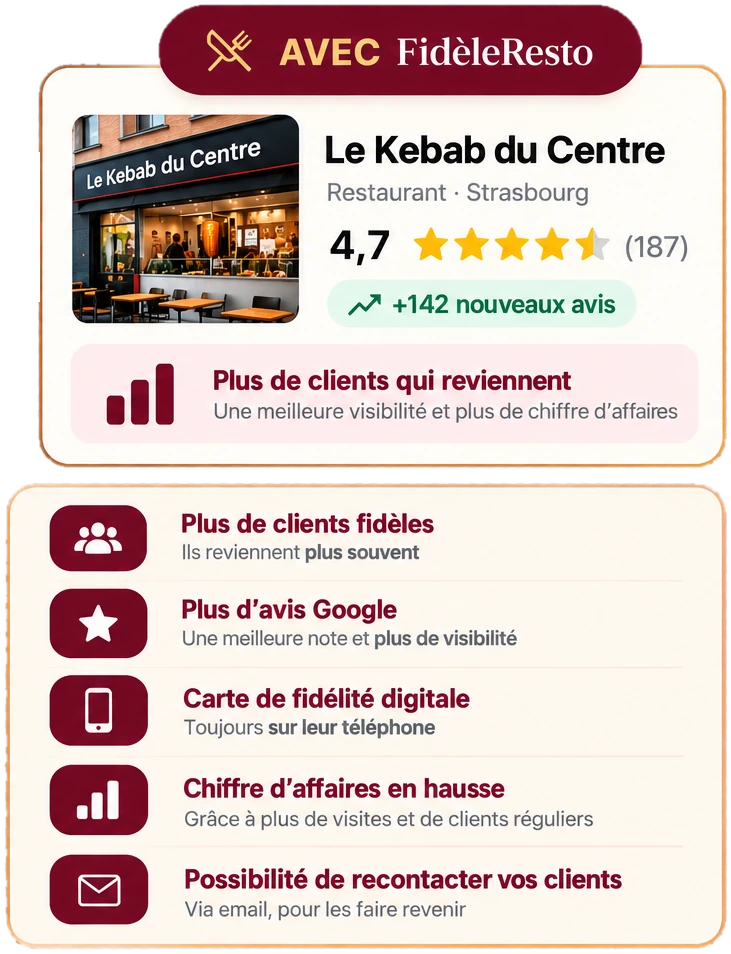
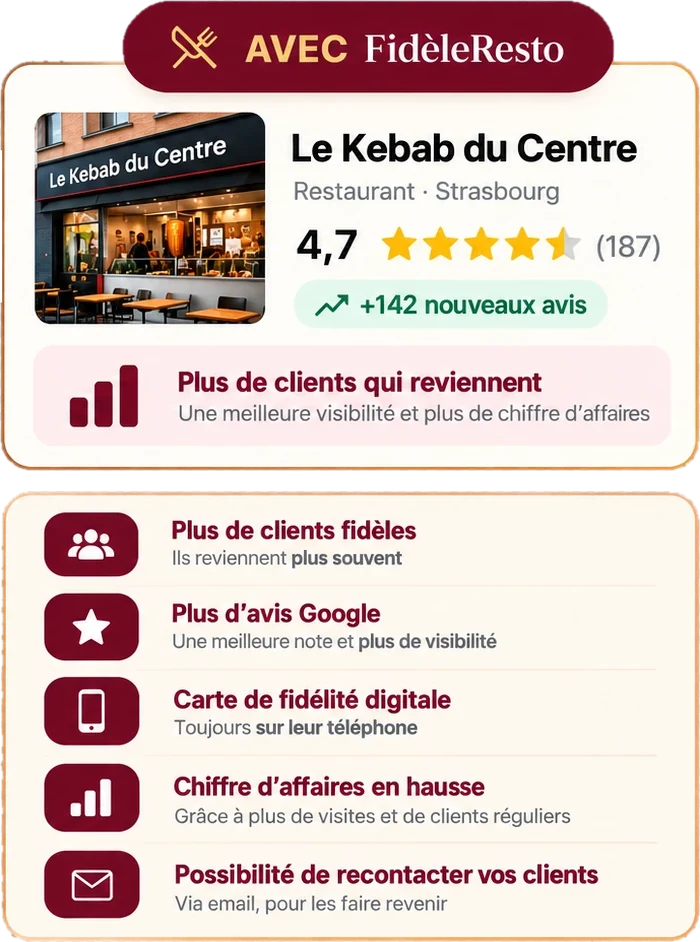
Avant/apres : visuels re-cadres (carte et liste alignees, meme largeur, residus gris retires), largeur limitee sur mobile. Dashboard : Relance remonte au-dessus d'Abonnement et Parametres
Claude-Session: https://claude.ai/code/session_01TWBaS271wyHBBYFiVrWyGi

Changed region(s): [[0.0, 0.0, 1.0, 1.0]]

diff --git a/components/testimonials-section.tsx b/components/testimonials-section.tsx
@@ -24,13 +24,13 @@ export function TestimonialsSection() {
           recontacter ses clients par email.
         </p>
 
-        <div className="mx-auto mt-14 grid max-w-5xl items-center gap-5 lg:grid-cols-[1fr_auto_1fr] lg:gap-7">
+        <div className="mx-auto mt-12 grid max-w-[440px] items-center gap-4 sm:mt-14 lg:max-w-5xl lg:grid-cols-[1fr_auto_1fr] lg:gap-7">
           <Image
             src="/assets/avant-apres-avant.webp"
             alt="Avant FidèleResto, exemple illustratif : 3,6 étoiles pour 45 avis, peu de clients qui reviennent, peu d'avis Google, des cartes papier perdues, un chiffre d'affaires limité, aucun moyen de recontact"
-            width={718}
-            height={925}
-            sizes="(min-width: 1024px) 480px, 100vw"
+            width={700}
+            height={924}
+            sizes="(min-width: 1024px) 480px, 440px"
             loading="lazy"
             className="h-auto w-full"
           />
@@ -40,14 +40,14 @@ export function TestimonialsSection() {
             width={76}
             height={77}
             loading="lazy"
-            className="mx-auto h-auto w-10 rotate-90 lg:w-14 lg:rotate-0"
+            className="mx-auto h-auto w-9 rotate-90 lg:w-14 lg:rotate-0"
           />
           <Image
             src="/assets/avant-apres-apres.webp"
             alt="Avec FidèleResto, exemple illustratif : 4,7 étoiles pour 187 avis, plus de clients qui reviennent, plus d'avis Google, une carte de fidélité digitale, un chiffre d'affaires en hausse, la possibilité de recontacter ses clients"
-            width={731}
-            height={954}
-            sizes="(min-width: 1024px) 480px, 100vw"
+            width={700}
+            height={942}
+            sizes="(min-width: 1024px) 480px, 440px"
             loading="lazy"
             className="h-auto w-full"
           />

diff --git a/app/dashboard/page.tsx b/app/dashboard/page.tsx
@@ -942,8 +942,8 @@ function DashboardContent() {
         { id: "menu", label: "Menu digital", icon: BookOpen, verrou: !estComplet },
         { id: "fidelite", label: "Carte fidélité", icon: Award, verrou: !estComplet },
         ...(restaurant?.plan === "essentiel" || restaurant?.plan === "standard" ? [{ id: "retours", label: "Retours clients", icon: Inbox }] : []),
-        { id: "abonnement", label: "Abonnement", icon: CreditCard },
         { id: "relance", label: "Relance", icon: Mail, verrou: !estComplet },
+        { id: "abonnement", label: "Abonnement", icon: CreditCard },
         { id: "parametres", label: "Paramètres", icon: Settings },
       ]
 
